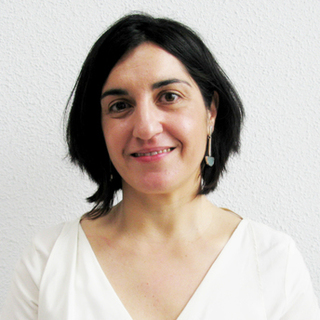
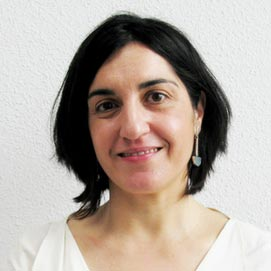
Actualizando nuevos ponentes.

diff --git a/index.html b/index.html
@@ -425,7 +425,7 @@
                     </div><!-- /.speaker -->
 
                     <div class="speaker">
-                        <div class="hexagon grayscale" style="background-image: url(assets/images/speakers/antonin-leonard.jpeg);">
+                        <div class="hexagon grayscale" style="background-image: url(assets/images/speakers/antonin-leonard.jpg);">
                             <span class="top"></span>
                             <span class="bottom"></span>
                         </div>
@@ -887,6 +887,39 @@
                             <li><a href="http://javierdelacueva.es/"><i class="ion-link"></i></a></li>
                         </ul>
                     </div> 
+                                                                                             
+                    <div class="speaker">
+                        <div class="hexagon grayscale" style="background-image: url(assets/images/speakers/susana-martin.jpg);">
+                            <span class="top"></span>
+                            <span class="bottom"></span>
+                        </div>                        
+
+                        <h4>Susana Martín Belmonte</h4>
+                        <p>Economista, investigadora y activista defensora de la reforma monetaria y las monedas ciudadanas</p>
+
+                        <ul class="social-block">
+                            <li><a href="http://twitter.com/Sumarbel/"><i class="ion-social-twitter"></i></a></li>
+                            <li><a href="https://es.linkedin.com/in/susanamb"><i class="ion-social-linkedin-outline"></i></a></li>                            
+                        </ul>
+                    </div> 
+
+                    <div class="speaker">
+                        <div class="hexagon grayscale" style="background-image: url(assets/images/speakers/ruben-surinach.jpg);">
+                            <span class="top"></span>
+                            <span class="bottom"></span>
+                        </div>                        
+
+                        <h4>Ruben Suriñach Padilla</h4>
+                        <p>Economista responsable del Balance Social de la Red de Economía Solidaria catalana</p>
+
+                        <!--
+                        <ul class="social-block">
+                            <li><a href="http://twitter.com/jdelacueva/"><i class="ion-social-twitter"></i></a></li>
+                            <li><a href="https://es.linkedin.com/in/jdelacueva"><i class="ion-social-linkedin-outline"></i></a></li>
+                            <li><a href="http://javierdelacueva.es/"><i class="ion-link"></i></a></li>
+                        </ul>
+                        -->
+                    </div>                     
                    
                 </div>
             </div>
@@ -1156,22 +1189,7 @@
                     <hr class="red" />
                 </div>
             </div>
-<!--            
-            <div class="row">
-                <div class="col-sm-3">
-                    <a class="partner-box partner-box-4"></a>
-                </div>
-                <div class="col-sm-3">
-                    <a class="partner-box partner-box-6"></a>
-                </div>
-                <div class="col-sm-3">
-                    <a class="partner-box partner-box-7"></a>
-                </div>
-                <div class="col-sm-3">
-                    <a class="partner-box partner-box-8"></a>
-                </div>
-            </div>
--->
+
             <div class="row">
                 <div class="col-md-12 text-center">
                     <!--<h3 class="text-uppercase mt0 font-400">Patrocina el evento</h3>-->
@@ -1211,26 +1229,28 @@
             <div class="row">
                 <div id="partners-l" class="owl-carousel">                    
                     <div><a href="http://www.socialcar.com" title="social car" target="_blank" class="partner-box partner-l partner-box-2"></a></div>
-                    <div><a href="http://airbnb.com" title="airbnb" target="_blank" class="partner-box partner-l partner-box-3"></a></div>                    
-                    
-                </div>
-            <!--
-
-                <div class="col-sm-3">
-                    <a class="partner-box partner-box-5"></a>
-                </div>
-                <div class="col-sm-3">
-                    <a class="partner-box partner-box-2"></a>
-                </div>
-                <div class="col-sm-3">
-                    <a class="partner-box partner-box-3"></a>
-                </div>
-                <div class="col-sm-3">
-                    <a class="partner-box partner-box-1"></a>
-                </div>
-            -->
+                    <div><a href="http://airbnb.com" title="airbnb" target="_blank" class="partner-box partner-l partner-box-3"></a></div>                                        
+                </div>            
             </div>            
 
+            <br />
+            <br />
+
+    <!--
+            <div class="row">
+                <div class="col-md-12">
+                    <h3 class="section-title">Media partners</h3>
+                    <hr class="red" />
+                </div>
+            </div>
+
+            <div class="row">
+                <div id="media-partners" class="owl-carousel">                    
+                    <div><a href="http://elmundo.com" title="El Mundo" target="_blank" class="partner-box partner-l media-partner-1"></a></div>                                        
+                </div>            
+            </div>            
+    -->
+        </div>
     </section>
 
 
@@ -1447,6 +1467,11 @@
                 //Autoplay
                 autoPlay : true,
                 stopOnHover : false
+            });
+
+            $("#media-partners").owlCarousel({
+                items : 1,
+                             
             });
         });
 

diff --git a/assets/css/main.css b/assets/css/main.css
@@ -765,6 +765,10 @@ border-top: 60px solid transparent;
   background: url(../images/partner/partner-8.png) no-repeat center center/contain;
 }
 
+.media-partner-1{
+  background: url(../images/partner/elmundo.svg) no-repeat center center/contain; 
+}
+
 /* 
  * 6.8 Section: FAQ
  */
